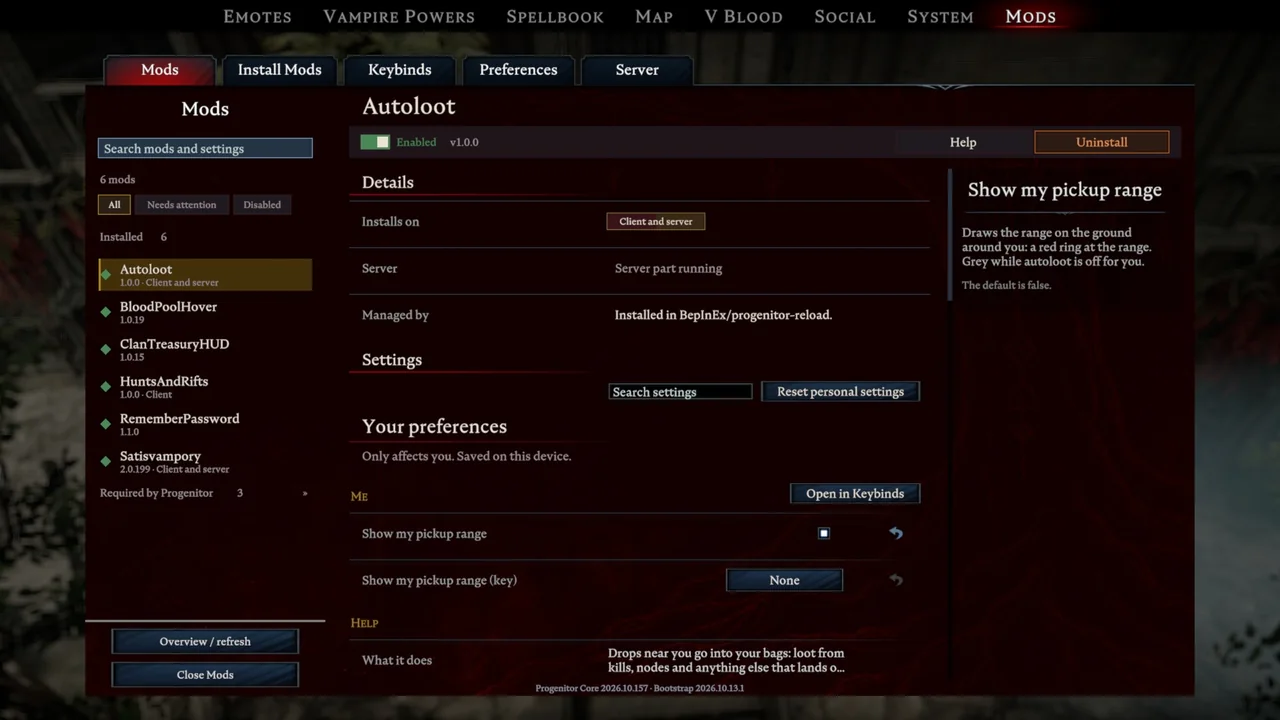
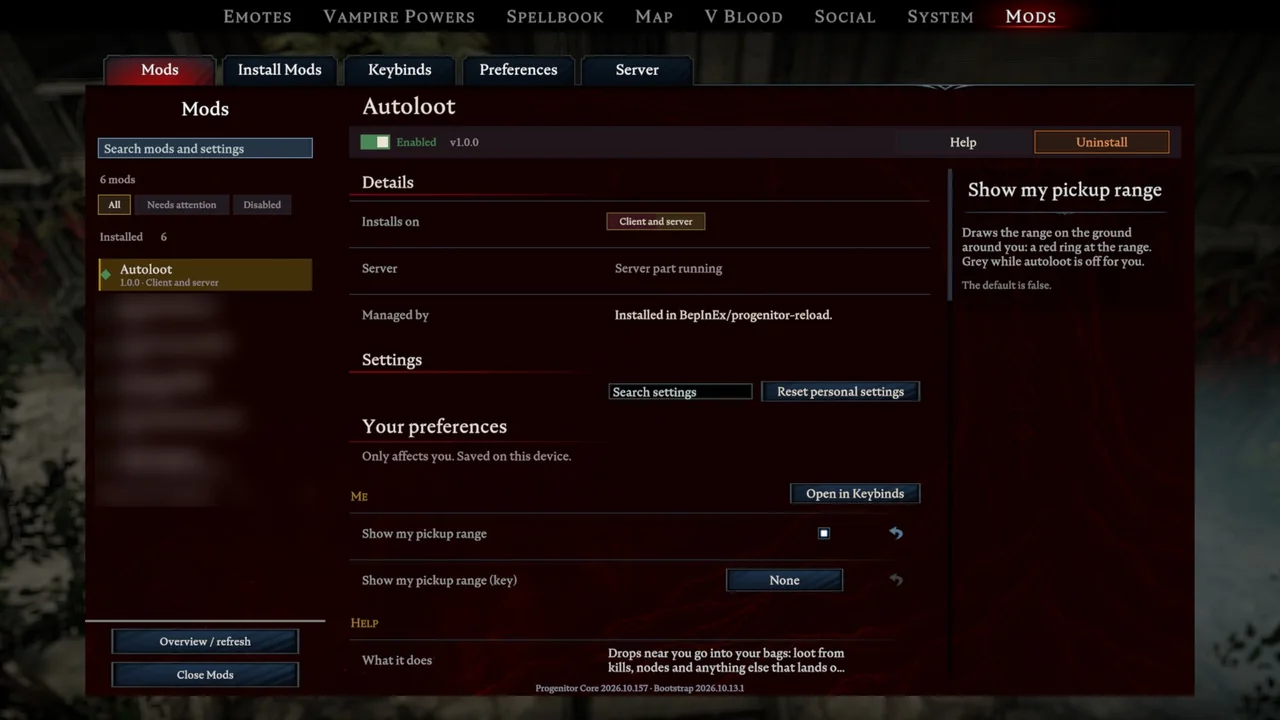
Listing: leave the Satisvampory link unannounced; blur other installed mods in the settings shots

Changed region(s): [[0.0625, 0.3972, 0.1875, 0.7028]]

diff --git a/README.md b/README.md
@@ -42,10 +42,6 @@ Admins change these in the game, on the same page:
 
 ![Server settings](https://raw.githubusercontent.com/VRising-Modders/Autoloot/main/docs/images/04-server-settings.webp)
 
-## With Satisvampory 2.0
-
-On a server that also runs [Satisvampory 2.0](https://github.com/VRising-Modders/Satisvampory), the castle logistics mod built on Progenitor, autoloot can stop at your island's caps, and your pickup filter can hold Satisvampory categories (such as Flowers or Materials). Satisvampory 1.x does not have this link.
-
 ## Where to install it
 
 - **The server** needs Autoloot: it does the picking up.

diff --git a/packaging/thunderstore/README.md b/packaging/thunderstore/README.md
@@ -42,10 +42,6 @@ Admins change these in the game, on the same page:
 
 ![Server settings](https://raw.githubusercontent.com/VRising-Modders/Autoloot/main/docs/images/04-server-settings.webp)
 
-## With Satisvampory 2.0
-
-On a server that also runs [Satisvampory 2.0](https://github.com/VRising-Modders/Satisvampory), the castle logistics mod built on Progenitor, autoloot can stop at your island's caps, and your pickup filter can hold Satisvampory categories (such as Flowers or Materials). Satisvampory 1.x does not have this link.
-
 ## Where to install it
 
 - **The server** needs Autoloot: it does the picking up.

diff --git a/packaging/thunderstore/CHANGELOG.md b/packaging/thunderstore/CHANGELOG.md
@@ -9,4 +9,3 @@ First release.
 - **Show my pickup range** draws the range as a ring of flames on the ground; it can have a key.
 - Per player: autoloot on or off, a pickup filter (the most of each item to carry, 0 for never), pickup notices.
 - Server settings in the game: range (1 to 30 m), what is picked up, how several players share, death bags, dropped inventory bags, and players without the client part.
-- With Satisvampory 2.0: stop at your island's caps, and Satisvampory categories in the pickup filter.
